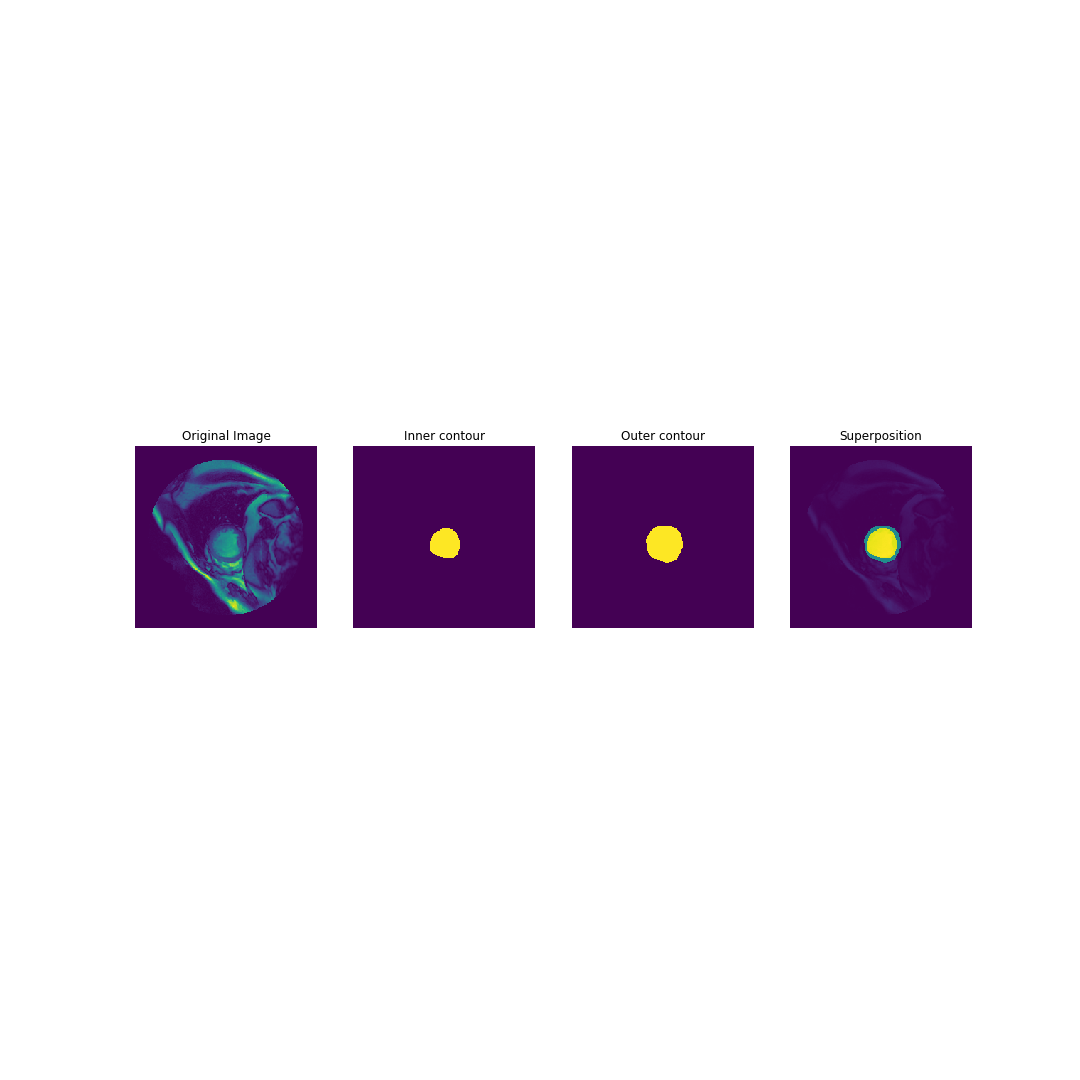
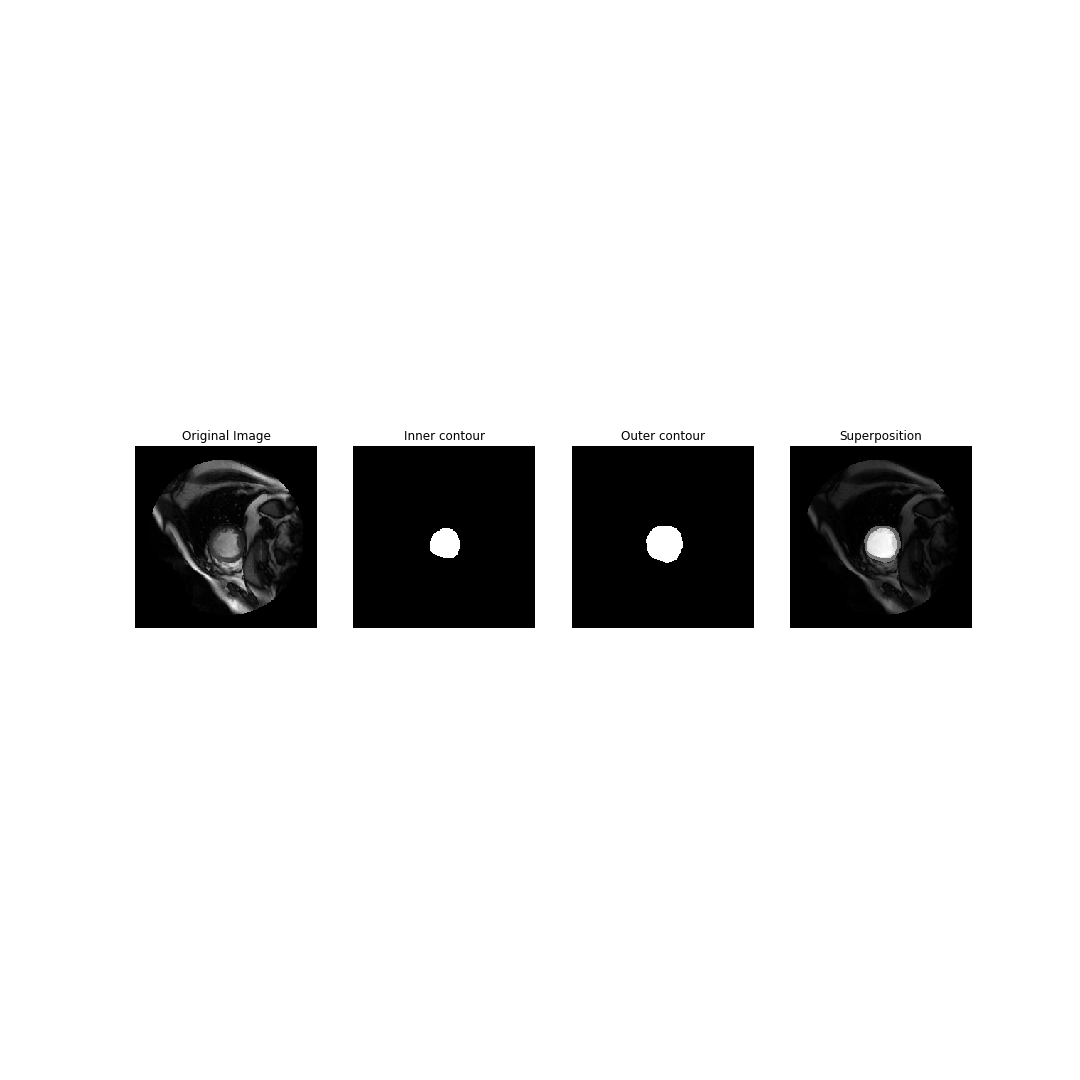
plots

Changed region(s): [[0.1222, 0.3972, 0.7028, 0.5806], [0.7333, 0.3972, 0.9167, 0.5806]]

diff --git a/utils/plot.py b/utils/plot.py
@@ -8,29 +8,32 @@ from segmentation import get_i_contour
 from segmentation import get_threshold_intensity
 
 
-def plot_segmentation(image, o_mask, i_mask):
-    threshold = get_threshold_intensity(image, o_mask, algorithm="gmm")
-    i_contour = get_i_contour(image, o_mask, threshold)
+def plot_segmentation(image, o_mask, i_mask, mode="intensity", algorithm="gmm"):
+    i_contour = get_i_contour(image, o_mask, mode=mode, algorithm=algorithm)
     pred_i_mask = poly_to_mask(i_contour, image.shape[0], image.shape[1])
 
     plt.figure(figsize=(20,20))
+    plt.gray()
     plt.subplot(131)
     plt.imshow(image)
     plt.title("Original Image")
     plt.axis('off')
     plt.subplot(132)
-    plt.imshow(image + 500*pred_i_mask)
+    plt.imshow(image + 200*pred_i_mask)
     plt.title("Predicted i_contour")
     plt.axis('off')
     plt.subplot(133)
-    plt.imshow(image + 500*i_mask)
+    plt.imshow(image + 200*i_mask)
     plt.title("True i_contour")
     plt.axis('off')
+    plt.show()
+    plt.close()
 
 
 def plot_generator(generator, nb_samples=3):
     count = 0
     plt.figure(figsize=(15,15))
+    plt.gray()
     while count < nb_samples:
         X, y = next(generator)
         image = X[0]
@@ -49,20 +52,24 @@ def plot_generator(generator, nb_samples=3):
         plt.title("Outer contour")
         plt.axis('off')
         plt.subplot(nb_samples, 4, count*4 + 4)
-        plt.imshow(image + 1000*i_mask + 1000*o_mask)
+        plt.imshow(image + 200*i_mask + 200*o_mask)
         plt.title("Superposition")
         plt.axis('off')
         count += 1
     plt.savefig("output/generator")
+    plt.show()
+    plt.close()
 
     
-def plot_histogram(image, o_mask, threshold):
-    
+def plot_histogram(image, o_mask, algorithm):
+
+    threshold = get_threshold_intensity(image, o_mask, algorithm=algorithm)
     data = list(image[o_mask])
     plt.hist(data, bins=40, histtype='stepfilled')
     plt.axvline(x=threshold, c='black')
     plt.xlim(0,255)
     plt.title("Normalized pixel intensity")
     plt.savefig("output/histogram")
-
+    plt.show()
+    plt.close()
     

diff --git a/segmentation.py b/segmentation.py
@@ -4,18 +4,25 @@ import numpy as np
 from sklearn.mixture import GaussianMixture
 from sklearn.cluster import KMeans
 from skimage import measure
+from skimage import feature
 from scipy import ndimage as ndi
 
 
 
-def get_i_contour(image, o_mask, threshold):
+def get_i_contour(image, o_mask, mode="intensity", algorithm="gmm"):
     
-    pred_i_mask = (image*o_mask>threshold).astype("bool")
+    if mode == "intensity":
+        threshold = get_threshold_intensity(image, o_mask, algorithm=algorithm)
+        pred_i_mask = (image*o_mask>threshold).astype("bool")
+
+    if mode == "edges":
+        pred_i_mask = feature.canny(image, sigma=3, low_threshold=10, high_threshold=25, mask=o_mask, use_quantiles=False)
+        
     pred_i_mask = ndi.binary_dilation(pred_i_mask, iterations=2)
     pred_i_mask = ndi.binary_fill_holes(pred_i_mask)
-    contour = measure.find_contours(pred_i_mask, 0.5, fully_connected='low', positive_orientation='low')[0]
+    contour = measure.find_contours(pred_i_mask, 0.5)[0]
     contour = [(y,x) for x,y in contour]
-    
+
     return contour
 
 
